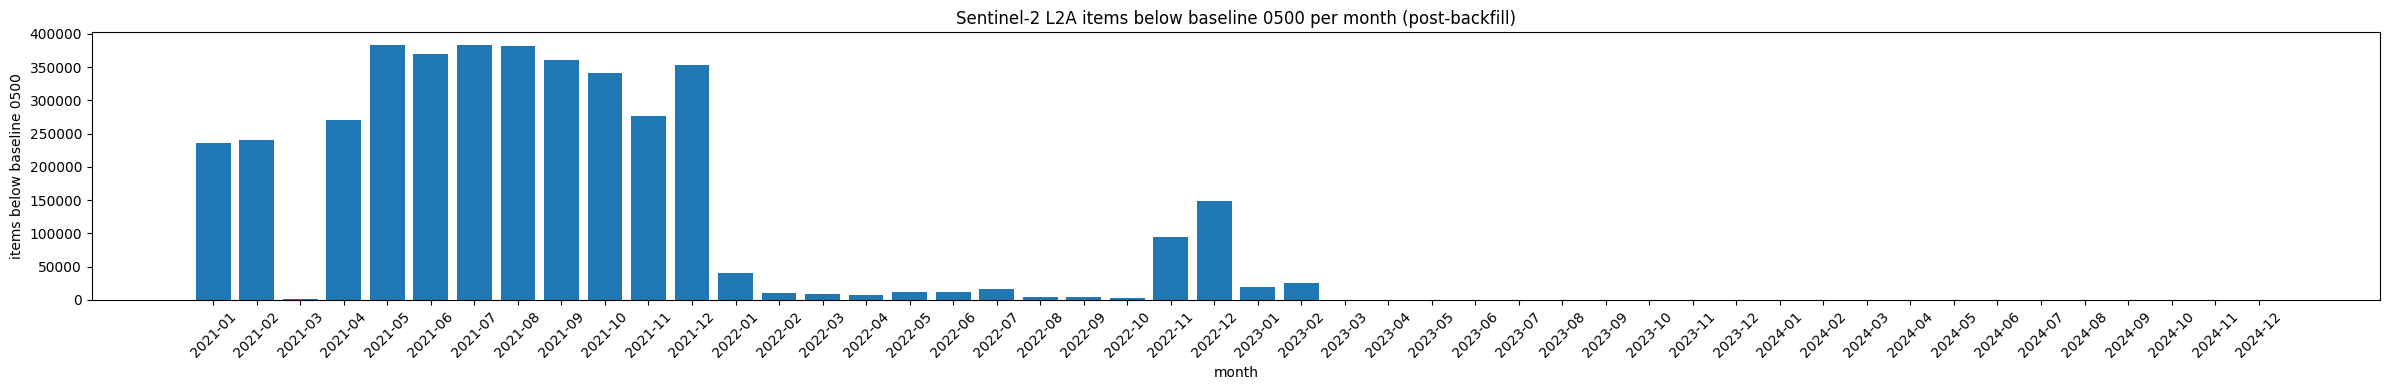
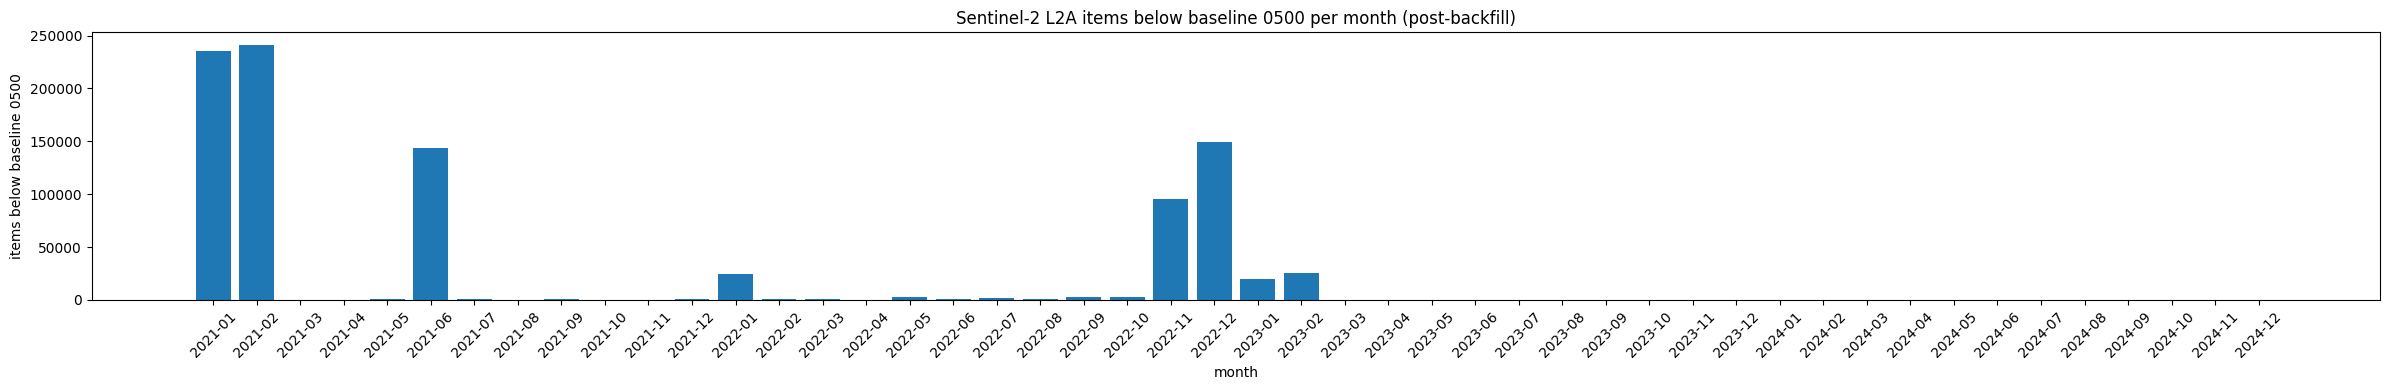
feat: update charts

diff --git a/notebooks/analysis.md b/notebooks/analysis.md
@@ -85,6 +85,34 @@ months
 
 
 
+## When each month's parquet file was created
+
+
+```python
+from datetime import datetime
+
+from IPython.display import HTML
+
+rows = []
+for month in months:
+    path = snapshot_dir / f"prefixes-{month}.parquet"
+    stat = path.stat()
+    created = getattr(stat, "st_birthtime", stat.st_mtime)
+    rows.append((month, datetime.fromtimestamp(created).strftime("%Y-%m-%d %H:%M:%S")))
+
+table = "<table><tr><th>month</th><th>created</th></tr>"
+table += "".join(f"<tr><td>{m}</td><td>{c}</td></tr>" for m, c in rows)
+table += "</table>"
+HTML(table)
+```
+
+
+
+
+<table><tr><th>month</th><th>created</th></tr><tr><td>2021-01</td><td>2026-06-22 10:06:50</td></tr><tr><td>2021-02</td><td>2026-06-22 10:10:26</td></tr><tr><td>2021-03</td><td>2026-06-22 10:14:14</td></tr><tr><td>2021-04</td><td>2026-06-22 10:18:35</td></tr><tr><td>2021-05</td><td>2026-06-22 10:22:39</td></tr><tr><td>2021-06</td><td>2026-06-22 10:26:50</td></tr><tr><td>2021-07</td><td>2026-06-22 10:30:52</td></tr><tr><td>2021-08</td><td>2026-06-22 10:35:01</td></tr><tr><td>2021-09</td><td>2026-06-22 10:39:14</td></tr><tr><td>2021-10</td><td>2026-06-22 10:43:24</td></tr><tr><td>2021-11</td><td>2026-06-22 13:51:54</td></tr><tr><td>2021-12</td><td>2026-06-22 14:00:07</td></tr><tr><td>2022-01</td><td>2026-06-22 07:26:45</td></tr><tr><td>2022-02</td><td>2026-06-22 07:30:20</td></tr><tr><td>2022-03</td><td>2026-06-22 07:34:02</td></tr><tr><td>2022-04</td><td>2026-06-22 07:38:19</td></tr><tr><td>2022-05</td><td>2026-06-22 07:42:27</td></tr><tr><td>2022-06</td><td>2026-06-22 08:28:20</td></tr><tr><td>2022-07</td><td>2026-06-22 08:32:37</td></tr><tr><td>2022-08</td><td>2026-06-22 08:52:52</td></tr><tr><td>2022-09</td><td>2026-06-22 08:57:13</td></tr><tr><td>2022-10</td><td>2026-06-22 09:01:29</td></tr><tr><td>2022-11</td><td>2026-06-22 09:05:44</td></tr><tr><td>2022-12</td><td>2026-06-22 09:09:24</td></tr><tr><td>2023-01</td><td>2026-06-18 15:38:48</td></tr><tr><td>2023-02</td><td>2026-06-18 15:42:36</td></tr><tr><td>2023-03</td><td>2026-06-18 15:46:28</td></tr><tr><td>2023-04</td><td>2026-06-18 15:50:52</td></tr><tr><td>2023-05</td><td>2026-06-18 15:55:00</td></tr><tr><td>2023-06</td><td>2026-06-18 15:59:15</td></tr><tr><td>2023-07</td><td>2026-06-18 16:03:22</td></tr><tr><td>2023-08</td><td>2026-06-18 16:07:37</td></tr><tr><td>2023-09</td><td>2026-06-18 16:11:54</td></tr><tr><td>2023-10</td><td>2026-06-18 16:16:11</td></tr><tr><td>2023-11</td><td>2026-06-22 06:39:18</td></tr><tr><td>2023-12</td><td>2026-06-22 06:43:01</td></tr><tr><td>2024-01</td><td>2026-06-18 14:10:36</td></tr><tr><td>2024-02</td><td>2026-06-18 14:14:19</td></tr><tr><td>2024-03</td><td>2026-06-18 14:18:12</td></tr><tr><td>2024-04</td><td>2026-06-18 14:22:31</td></tr><tr><td>2024-05</td><td>2026-06-18 14:26:33</td></tr><tr><td>2024-06</td><td>2026-06-18 14:30:36</td></tr><tr><td>2024-07</td><td>2026-06-18 14:34:40</td></tr><tr><td>2024-08</td><td>2026-06-18 14:38:51</td></tr><tr><td>2024-09</td><td>2026-06-18 14:43:06</td></tr><tr><td>2024-10</td><td>2026-06-18 14:46:33</td></tr><tr><td>2024-11</td><td>2026-06-18 14:50:47</td></tr><tr><td>2024-12</td><td>2026-06-18 14:54:32</td></tr></table>
+
+
+
 ## Items below baseline 0500 per month
 
 
@@ -102,7 +130,7 @@ plt.show()
 
 
     
-![png](analysis_files/analysis_4_0.png)
+![png](analysis_files/analysis_6_0.png)
     
 
 
@@ -128,6 +156,6 @@ plt.show()
 
 
     
-![png](analysis_files/analysis_6_0.png)
+![png](analysis_files/analysis_8_0.png)
     
 
